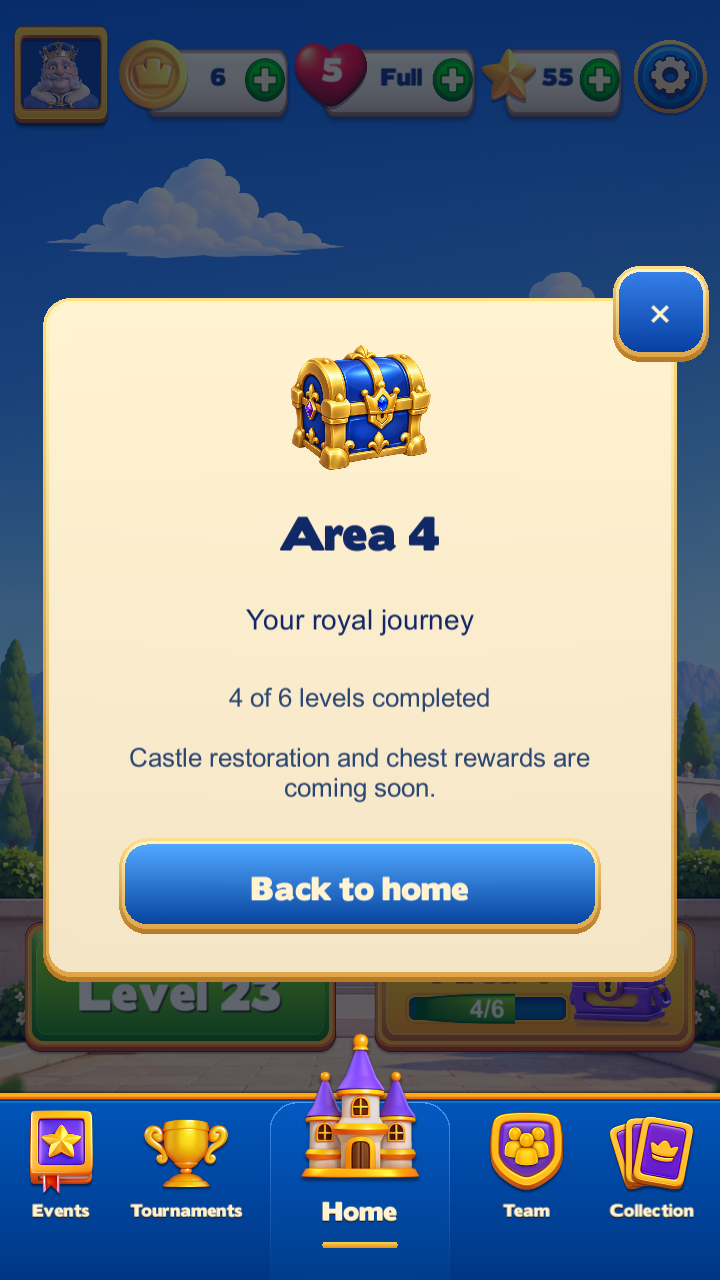
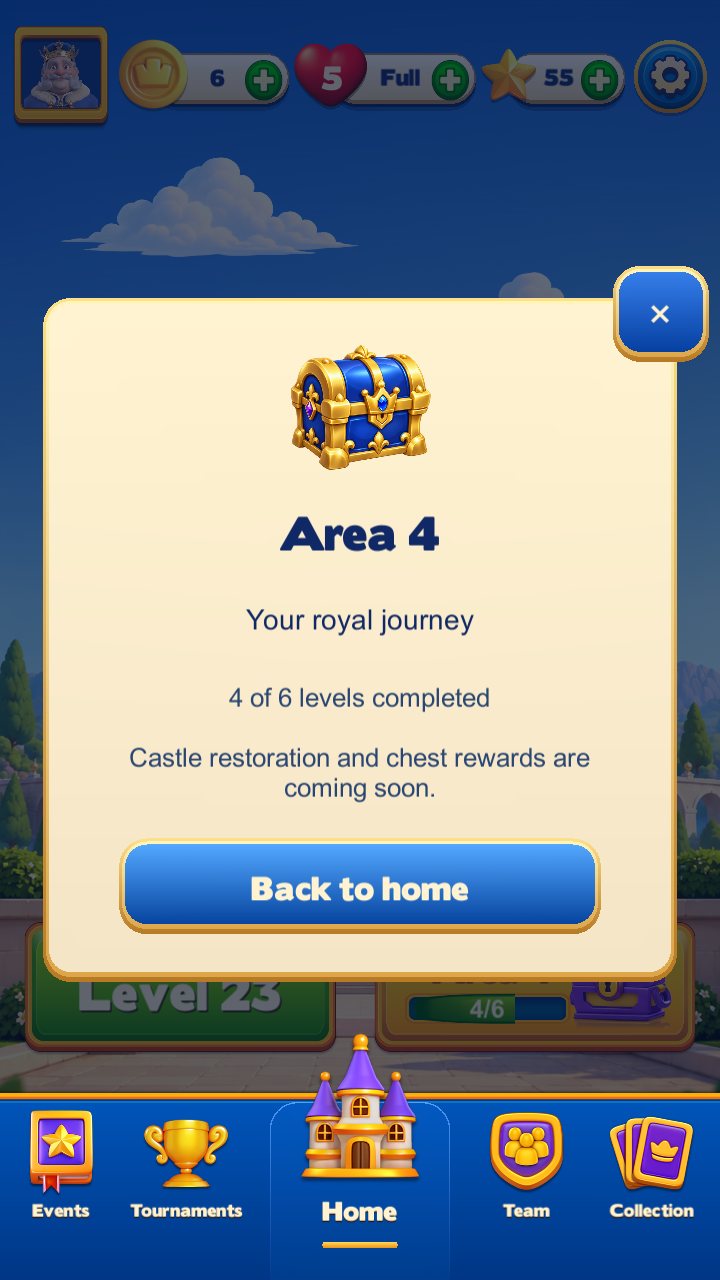
Slim the Home counters to the reference's pill
The imported panel sprite made each counter 100 px tall with a deep brown
bevel; the reference shows a 77 px cream pill with a thin tan lip and a soft
navy shadow. Draw that pill in code to the measured profile, centre each +
in its round right end, and size the values like the reference's digits.
The life count moves down to the heart's centre.

Measured against the reference at 1080x1920: pill face, lip and shadow on the
same rows, values within 1-2 px. Home checks 167/167 at 720x1280, 1080x1920,
1080x2160 and 1440x2960; real save unchanged.

diff --git a/Assets/ReferenceGameplay/Home/Scripts/ReferenceHomeLayout.cs b/Assets/ReferenceGameplay/Home/Scripts/ReferenceHomeLayout.cs
@@ -17,12 +17,19 @@ namespace RoyalThrone.ReferenceGameplay
         // settings as fractions of the bar's width.
         const float HudWidth=.9685f,HudHeight=.1498f,HudCentre=.1071f;
         static readonly float[] ResourceEdges={0,.1424f,.1520f,.4044f,.4054f,.6721f,.6730f,.8824f,.8910f,.9990f};
-        // Counters (coins, lives, stars), as x0,y0,x1,y1 of each counter: the cream panel, the icon over its left end, the value
-        // between them and the + badge at the panel's right end. The panel sprite's cream face is its top 10-65%.
-        static readonly Vector4 Panel=new Vector4(.13f,.023f,1,.7954f);
-        static readonly Vector4[] Icon={new Vector4(.002f,.192f,.4034f,.866f),new Vector4(0,.195f,.398f,.82f),new Vector4(0,.2818f,.3836f,.7701f)};
-        static readonly Vector4[] Value={new Vector4(.432f,.3869f,.716f,.6589f),new Vector4(.416f,.3869f,.742f,.6589f),new Vector4(.3836f,.3869f,.6712f,.6589f)};
-        static readonly Vector4[] Plus={new Vector4(.7225f,.2683f,.9555f,.6791f),new Vector4(.7426f,.2683f,.9634f,.6791f),new Vector4(.6746f,.2683f,.9556f,.6791f)};
+        // Counters (coins, lives, stars) in reference pixels (1080 wide, y down from the top of the screen), turned into anchors by
+        // Px(). Each is a slim cream pill, 77 px tall with a thin edge, a tan lip and a soft shadow, starting under the icon's
+        // centre. The + sits in the pill's round right end, and the value between the icon and the +.
+        static readonly Vector4[] IconPx={new Vector4(176.5f,56.5f,282.5f,165.5f),new Vector4(441,64,552,165),new Vector4(721,72,805,151)};
+        static readonly Vector4[] ValuePx={new Vector4(288,83,366,146),new Vector4(556,82,646,145),new Vector4(806,82,870,145)};
+        static readonly Vector4 LifeCountPx=new Vector4(463,83.5f,533,144.5f);
+        static readonly float[] PillLeft={229,497,763},PillRight={434,714,938};
+        const float PillTop=79,PillBottom=156,FaceTop=82,FaceBottom=150,PillEdge=2.5f;
+        // Values render at about 32 px, the reference digits' size.
+        const int ValueSize=21;
+        // The + badge's green disc is 53 px across; in its sprite pair it fills 92% of the width and 85% of the height, centred 45%
+        // from the top.
+        const float PlusDisc=53,PlusWidth=PlusDisc/.921f,PlusHeight=PlusDisc/.853f,PlusCentre=.453f;
         // Level and area cards: 1014 x 201 px, centred 436 px above the safe bottom; the area card is the wider one.
         const float ActionsWidth=.9394f,ActionsHeight=.1864f,ActionsCentre=.4040f,LevelRight=.4687f,AreaLeft=.5175f;
         // Tab bar: 286 px, the imported strip's gold edge and highlight fill its top 14.3 units (at w 720) and stay visible.
@@ -52,6 +59,18 @@ namespace RoyalThrone.ReferenceGameplay
         // A soft drop shadow gives the resource art the reference's depth against the sky.
         static void Shade(Graphic g){var s=g.gameObject.AddComponent<Shadow>();s.effectColor=new Color(.02f,.1f,.3f,.35f);s.effectDistance=new Vector2(0,-3);}
         static void Shade(Transform parent,string name){foreach(Transform c in parent)if(c.name==name)Shade(c.GetComponent<Graphic>());}
+        // Reference pixels -> anchors inside resource control i: x from the bar's left edge, y down from the top of the screen.
+        static Vector4 Px(int i,Vector4 p){const float W=1080;float barW=HudWidth*W,barH=HudHeight*W,top=HudCentre*W-barH*.5f,left=(W-barW)*.5f+ResourceEdges[i*2]*barW,width=(ResourceEdges[i*2+1]-ResourceEdges[i*2])*barW;
+            return new Vector4((p.x-left)/width,(top+barH-p.w)/barH,(p.z-left)/width,(top+barH-p.y)/barH);}
+        static RoyalPanelGraphic PillLayer(Transform parent,int i,string name,Vector4 p,Color top,Color bottom){var g=Surface(name,parent,top,bottom);Bounds(g.rectTransform,Px(i,p));g.cornerRadius=1000;return g;}
+        // The counter's cream pill, drawn to the reference's profile rather than the imported panel sprite, whose deep lower bevel
+        // made the bar a third taller than the reference.
+        static void Pill(Transform parent,int i,float left,float right){
+            PillLayer(parent,i,"Counter shadow far",new Vector4(left,PillTop+10,right,PillBottom+10),new Color(0,.06f,.2f,.3f),new Color(0,.06f,.2f,.3f));
+            PillLayer(parent,i,"Counter shadow",new Vector4(left,PillTop+5,right,PillBottom+5),new Color(0,.06f,.18f,.55f),new Color(0,.06f,.18f,.55f));
+            PillLayer(parent,i,"Counter edge",new Vector4(left,PillTop,right,PillBottom),new Color(.60f,.49f,.37f),new Color(.70f,.53f,.35f));
+            PillLayer(parent,i,"Counter face",new Vector4(left+PillEdge,FaceTop,right-PillEdge,FaceBottom),new Color(.985f,.965f,.91f),new Color(.895f,.815f,.66f));
+            PillLayer(parent,i,"Counter shine",new Vector4(left+14,FaceTop+2,right-14,FaceTop+20),new Color(1,1,1,.55f),new Color(1,1,1,0));}
         static Image Pic(Transform parent,int id,float x0,float y0,float x1,float y1,bool sliced=false){var r=new GameObject("Imported "+id,typeof(RectTransform)).GetComponent<RectTransform>();r.SetParent(parent,false);Bounds(r,x0,y0,x1,y1);var im=r.gameObject.AddComponent<Image>();im.sprite=Art(id);im.raycastTarget=false;im.type=sliced?Image.Type.Sliced:Image.Type.Simple;im.pixelsPerUnitMultiplier=2;return im;}
         static Image Pic(Transform parent,int id,Vector4 b)=>Pic(parent,id,b.x,b.y,b.z,b.w);
         static void Pair(Transform p,int id,float x0,float y0,float x1,float y1,bool slice=false,bool rightHalf=false){float m=(x0+x1)*.5f;var a=Pic(p,id,x0,y0,m,y1,slice);var b=Pic(p,id,m,y0,x1,y1,slice);(rightHalf?a:b).rectTransform.localScale=new Vector3(-1,1,1);}
@@ -83,11 +102,14 @@ namespace RoyalThrone.ReferenceGameplay
             portrait.transform.SetAsLastSibling();Bounds(portrait.rectTransform,.13f,.12f,.87f,.91f);portrait.preserveAspect=true;
             Pair(home.resourceButtons[0].transform,16613,0,0,1,1,true);Shade(home.resourceButtons[0].transform,"Imported 16613");
             int[] icons={22081,21591,16674};Text[] values={home.coinLabel,home.lifeStatus,home.starLabel};plus=new RectTransform[3];
-            for(int i=1;i<=3;i++){var b=home.resourceButtons[i].transform;Pair(b,21706,Panel.x,Panel.y,Panel.z,Panel.w,true,true);var im=Pic(b,icons[i-1],Icon[i-1]);im.preserveAspect=true;Shade(im);TextPlace(values[i-1],Value[i-1],24);
+            for(int i=1;i<=3;i++){var b=home.resourceButtons[i].transform;int k=i-1;Pill(b,i,PillLeft[k],PillRight[k]);
+                var im=Pic(b,icons[k],Px(i,IconPx[k]));im.preserveAspect=true;Shade(im);TextPlace(values[k],Px(i,ValuePx[k]),ValueSize);
                 // Every counter carries the same + badge. It is art inside the counter, so a tap still opens that counter's panel.
-                var badge=new GameObject("Plus badge",typeof(RectTransform)).GetComponent<RectTransform>();badge.SetParent(b,false);Bounds(badge,Plus[i-1]);Pair(badge,16282,0,0,1,1);plus[i-1]=badge;}
+                float cx=PillRight[k]-(PillBottom-PillTop)*.5f,cy=(PillTop+PillBottom)*.5f;
+                var badge=new GameObject("Plus badge",typeof(RectTransform)).GetComponent<RectTransform>();badge.SetParent(b,false);
+                Bounds(badge,Px(i,new Vector4(cx-PlusWidth*.5f,cy-PlusHeight*PlusCentre,cx+PlusWidth*.5f,cy+PlusHeight*(1-PlusCentre))));Pair(badge,16282,0,0,1,1);plus[k]=badge;}
             foreach(var t in home.resourceButtons[1].GetComponentsInChildren<Text>(true))if(t!=home.coinLabel)t.enabled=false;
-            TextPlace(home.lifeLabel,.08f,.398f,.33f,.778f,31);
+            TextPlace(home.lifeLabel,Px(2,LifeCountPx),31);
             // Settings: the blue dial inside a gold outer rim, as in the reference.
             var settings=home.resourceButtons[4].transform;var ring=Surface("Settings gold rim",settings,new Color(1,.88f,.4f),new Color(.84f,.5f,.07f));Anchor(ring.rectTransform,.013f,.164f,.987f,.844f);ring.cornerRadius=1000;Shade(ring);
             Pair(settings,17072,.066f,.201f,.934f,.807f,false,true);

diff --git a/Design/Branding/HOME-SCREEN.md b/Design/Branding/HOME-SCREEN.md
@@ -36,7 +36,7 @@ Existing Unity 6 serialization fields may be updated when the game scene is save
 
 The live Home follows the Home reference supplied on 27 September 2026 ([home-reference-2026-09-27.png](Home-Reference/home-reference-2026-09-27.png)), built from the art already in the game. `ReferenceHomeLayout` holds the proportions. They were measured at 1080 × 1920 and are stored as fractions of the layout width, so every portrait size keeps the composition. Comparisons: [reference vs Unity](Home-Reference/reference-vs-unity-1080x1920.png), [four phone sizes](Home-Reference/unity-responsive.png), [notch and punch-hole devices](Home-Reference/unity-notch-and-punch-hole.png).
 
-- **Resource bar.** The avatar, three counters and Settings sit in one row. Each counter has its icon over the left end of the cream panel, the value in the middle and a green + at the right end. The + is part of the counter, so a tap opens the same panel as before. Settings has a gold rim, and the icons have a soft drop shadow.
+- **Resource bar.** The avatar, three counters and Settings sit in one row ([top bar comparison](Home-Reference/reference-vs-unity-top-bar.png)). Each counter is a slim cream pill, 77 px tall at 1080 wide, with a thin tan lip and a soft shadow. It is drawn in code to the reference's profile, because the imported panel sprite's deep bevel made the bar a third taller. The icon sits over the pill's left end, the value in the middle, and a green + in its round right end. The + is part of the counter, so a tap opens the same panel as before. Settings has a gold rim, and the icons have a soft drop shadow.
 - **Level and area cards.** They measure 1014 × 201 px at 1080 wide and sit 436 px above the safe bottom. The area card is slightly wider, and the Home castle's spire rises through the gap between the cards.
 - **Tab bar.** It is 286 px tall, with a deep royal-blue gradient under the imported gold edge. Every tab is named: Events, Tournaments, Home, Team and Collection. The selected tab has a slightly lighter rounded panel, a soft rim, a short gold underline and raised art. Events still opens Royal Journey (level selection) and Tournaments opens Royal Leagues; the panels are unchanged.
 - **Background.** It is never stretched and always covers the screen. It is placed so the card row meets the courtyard at the same point on every aspect ratio. A deep-blue veil over the top 47% of the sky sits behind the clouds.
